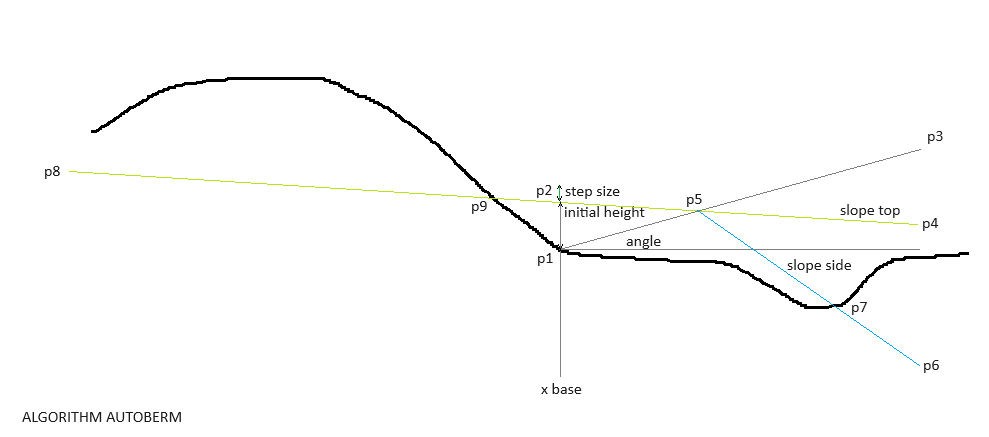
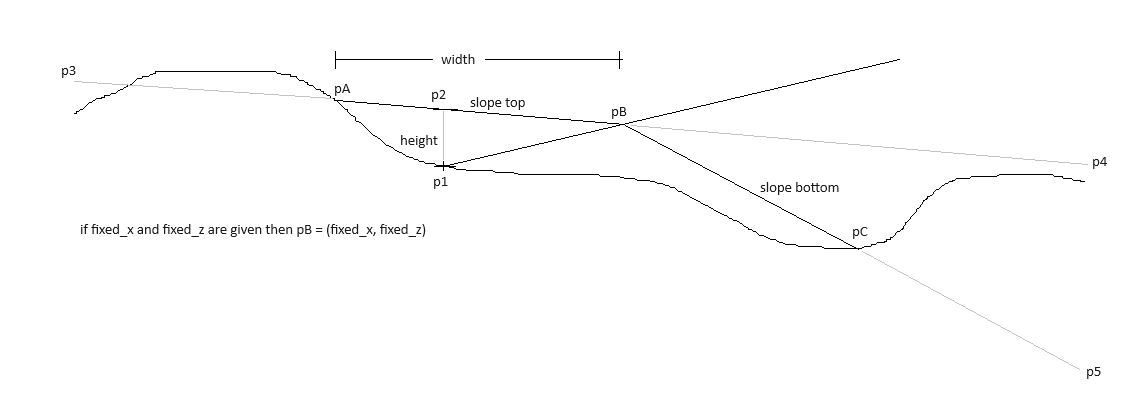
added option to set fixed berm topright point

diff --git a/leveelogic/deltares/algorithms/algorithm_berm_wsbd.py b/leveelogic/deltares/algorithms/algorithm_berm_wsbd.py
@@ -16,6 +16,9 @@ class AlgorithmBermWSBD(Algorithm):
     width: float = 0.0
     height: float = 0.0
 
+    fixed_x: float = None
+    fixed_z: float = None
+
     fill_ditch: bool = False
     ditch_soilcode: str = None
 
@@ -26,14 +29,14 @@ class AlgorithmBermWSBD(Algorithm):
     ditch_land_side: float = nan
 
     def _check_input(self):
-        if self.width > 0 and self.height > 0:
-            # do we have this soilcode
+        # if we are using the algorithm to not only fill the ditch do we have this soilcode for the berm?
+        if self.width > 0 or self.fixed_x is not None:
             if not self.ds.has_soilcode(self.soilcode):
                 raise AlgorithmInputCheckError(
                     f"AlgorithmBermWSBD got an invalid soilcode '{self.soilcode}'"
                 )
 
-            # do we have the toe char points
+            # do we have the toe char point?
             self.embankement_toe_land_side = (
                 self.ds.model.datastructure.waternetcreatorsettings[
                     0
@@ -92,27 +95,43 @@ class AlgorithmBermWSBD(Algorithm):
             ds.add_layer(fp_points, self.ditch_soilcode, label="ditch fill")
 
         # the algorithm could be used to only fill the ditch
-        # in this case either the width or the height are zero
-        if self.width <= 0 or self.height <= 0:
+        # in this case the height width can be zero and the fixed coords not set
+        if self.fixed_x is None and self.width <= 0.0:
             return ds
 
-        # toe of the levee
         p1 = (
             self.embankement_toe_land_side,
             ds.z_at(self.embankement_toe_land_side)[0],
         )
-        # toe of the levee plus the initial height
-        p2 = (self.embankement_toe_land_side, p1[1] + self.height)
-        # left most points based on slope s1
-        p3 = (
-            ds.left,
-            p2[1] + (self.embankement_toe_land_side - ds.left) / self.slope_top,
-        )
-        #  rightmost point based on slope s1
-        p4 = (
-            ds.right,
-            p2[1] - (ds.right - self.embankement_toe_land_side) / self.slope_top,
-        )
+        if self.fixed_x is not None and self.fixed_z is not None:
+            # the topright point of the berm is defined so now find out the intersections based on the slopes
+            p3 = (
+                ds.left,
+                self.fixed_z + (self.fixed_x - ds.left) / self.slope_top,
+            )
+            p4 = (
+                ds.right,
+                self.fixed_z
+                - (ds.right - self.embankement_toe_land_side) / self.slope_top,
+            )
+        elif self.width > 0 and self.height > 0:
+            # toe of the levee
+
+            # toe of the levee plus the initial height
+            p2 = (self.embankement_toe_land_side, p1[1] + self.height)
+            # left most points based on slope s1
+            p3 = (
+                ds.left,
+                p2[1] + (self.embankement_toe_land_side - ds.left) / self.slope_top,
+            )
+            #  rightmost point based on slope s1
+            p4 = (
+                ds.right,
+                p2[1] - (ds.right - self.embankement_toe_land_side) / self.slope_top,
+            )
+
+        else:
+            raise ValueError("No valid berm option given")
 
         # get all intersections with the top of the berm
         intersections = polyline_polyline_intersections([p3, p4], ds.surface)
@@ -126,8 +145,11 @@ class AlgorithmBermWSBD(Algorithm):
             )
         # FIRST POINT OF BERM -> start of berm (left side)
         pA = left_intersections[-1]
-        pB = (pA[0] + self.width, pA[1] - self.width / self.slope_top)
 
+        if self.fixed_x is not None:
+            pB = (self.fixed_x, self.fixed_z)
+        else:
+            pB = (pA[0] + self.width, pA[1] - self.width / self.slope_top)
         p5 = (
             ds.right,
             pB[1] - (ds.right - pB[0]) / self.slope_bottom,

diff --git a/tests/deltares/algorithms/test_algorithm_berm_wsbd.py b/tests/deltares/algorithms/test_algorithm_berm_wsbd.py
@@ -74,3 +74,17 @@ class TestAlgorithmBermWSBD:
         )
         with pytest.raises(AlgorithmInputCheckError):
             ds = alg.execute()
+
+    def test_execute_spikey_geometry_fixed_xz(self):
+        ds = DStability.from_stix("tests/testdata/stix/spikey_geometry.stix")
+
+        alg = AlgorithmBermWSBD(
+            ds=ds,
+            soilcode="Embankment dry",
+            slope_top=10,
+            slope_bottom=2,
+            fixed_x=45,
+            fixed_z=14,
+        )
+        ds = alg.execute()
+        ds.serialize(f"tests/testdata/output/spikey_geometry_berm_fixed_xz.stix")
